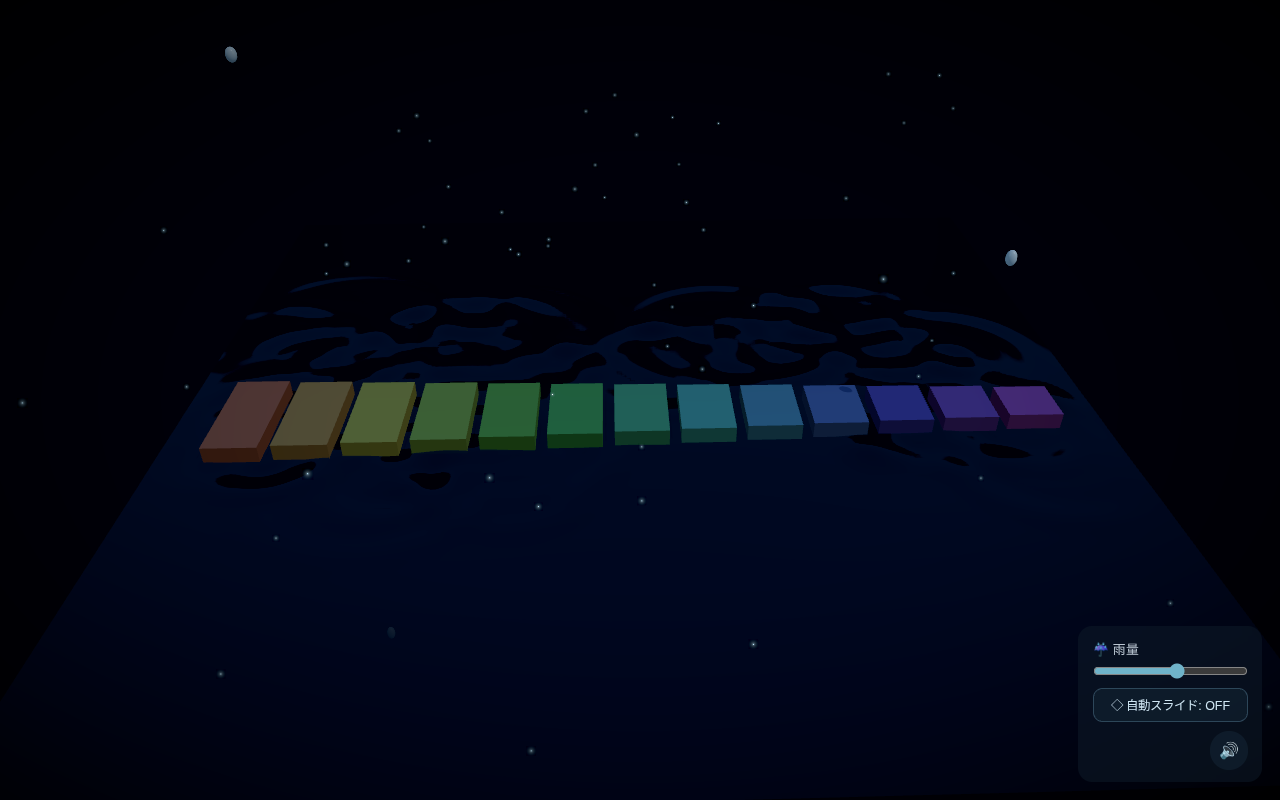
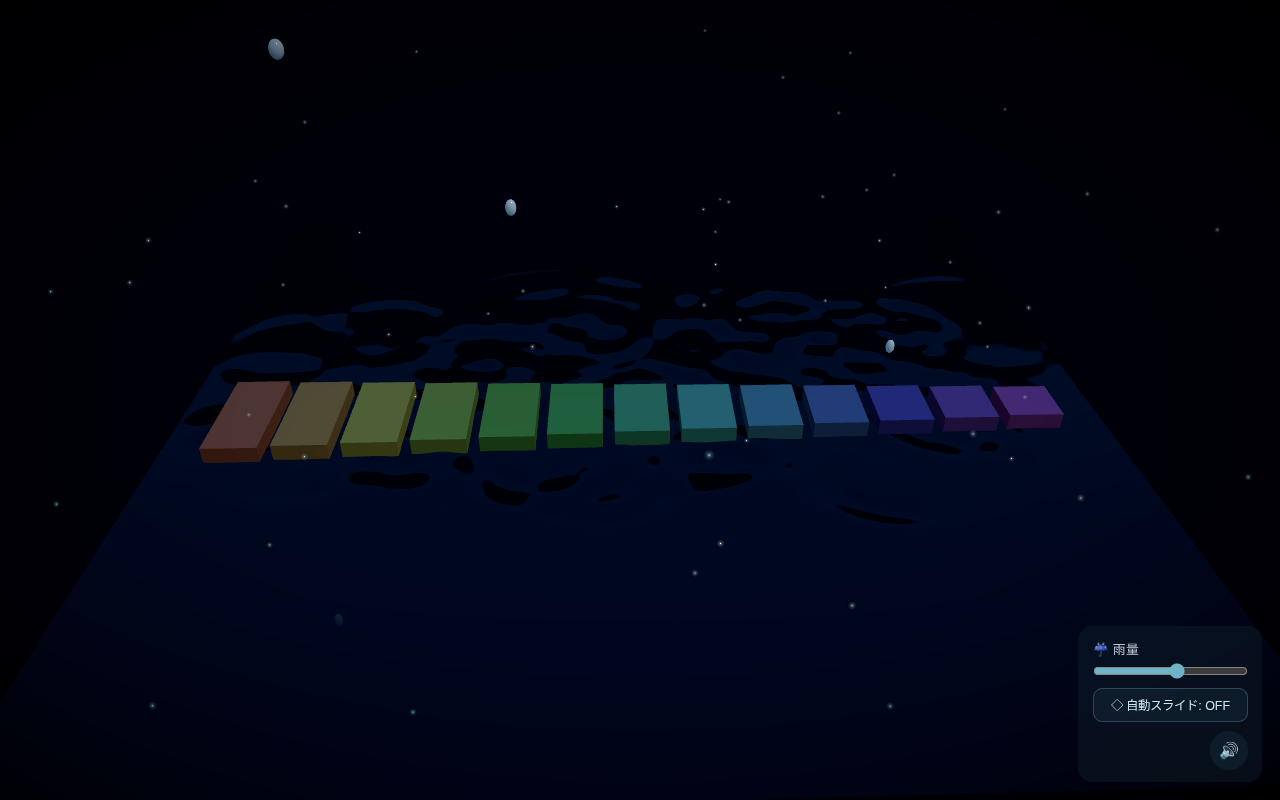
feat: 水面の泡音(着水音)を削除・板の音を木琴(シロフォン)系の硬く短い響きに変更

diff --git a/src/audio/synth.ts b/src/audio/synth.ts
@@ -27,7 +27,6 @@ let engine: Engine | null = null
 let started = false
 let muted = false
 let activeVoices = 0
-let activeDropVoices = 0
 
 async function loadTone(): Promise<ToneMod> {
   if (!Tone) Tone = await import('tone')
@@ -94,7 +93,8 @@ export async function startAudio(): Promise<void> {
 }
 
 /**
- * バーに着水したときに、そのバーの音を温かいマリンバで鳴らす。
+ * バーに着水したときに、そのバーの音を木琴（シロフォン）系の硬く明るい音で鳴らす。
+ * 木琴の特徴である基音＋12度（第3倍音）の響きと、短く打鍵的な減衰にしている。
  * x はシーン上の横位置（[-POND_HALF, POND_HALF]）で、左右の定位に使う。
  */
 export function playNote(note: string, x: number): void {
@@ -108,14 +108,16 @@ export function playNote(note: string, x: number): void {
   panVol.connect(engine.eq) // ドライ成分も少し
 
   const voice = new T.Synth({
-    oscillator: { partials: [1, 0, 2, 0, 3] }, // 木質の倍音（マリンバ）
-    envelope: { attack: 0.001, decay: 1.2, sustain: 0, release: 1.2 },
+    // 基音＋第3倍音(12度)＋第6倍音 ＝ 木琴の硬く乾いた響き。
+    oscillator: { partials: [1, 0, 0.7, 0, 0, 0.3] },
+    // 短い減衰で「コンッ」と鳴って素早く消える（木琴らしい打鍵感）。
+    envelope: { attack: 0.001, decay: 0.5, sustain: 0, release: 0.3 },
     volume: -6,
   }).connect(panVol)
-  voice.detune.value = (Math.random() * 2 - 1) * 6 // ±6 cent のゆらぎ
+  voice.detune.value = (Math.random() * 2 - 1) * 5 // ±5 cent のゆらぎ
 
-  const velocity = 0.5 + Math.random() * 0.4
-  voice.triggerAttackRelease(note, '2n', undefined, velocity)
+  const velocity = 0.55 + Math.random() * 0.4
+  voice.triggerAttackRelease(note, '8n', undefined, velocity)
 
   activeVoices += 1
   setTimeout(() => {
@@ -125,46 +127,7 @@ export function playNote(note: string, x: number): void {
     } finally {
       activeVoices -= 1 // dispose が失敗してもカウンタを必ず戻す
     }
-  }, 2600)
-}
-
-/**
- * 水面への着水音（リアルな「ポチャッ」）。
- * 水滴の気泡共鳴を模して、ピッチが素早く上がる正弦波＋速い減衰。
- * 滴ごとに基音と上昇量をゆらして、雨の粒立ちを出す。x で左右へ定位。
- */
-export function playWaterDrop(x: number): void {
-  if (!started || !Tone || !engine) return
-  if (activeDropVoices > 12) return // 多発するのでやや低めに上限
-  const T = Tone
-  const now = T.now()
-
-  const pan = Math.max(-1, Math.min(1, x / POND_HALF))
-  const panVol = new T.PanVol(pan, -15)
-  panVol.connect(engine.reverb)
-  panVol.connect(engine.eq)
-
-  const f0 = 520 + Math.random() * 440
-  const voice = new T.Synth({
-    oscillator: { type: 'sine' },
-    envelope: { attack: 0.001, decay: 0.1, sustain: 0, release: 0.04 },
-    volume: -8,
-  }).connect(panVol)
-
-  voice.triggerAttackRelease(f0, 0.11, now, 0.5 + Math.random() * 0.4)
-  // 着水直後にピッチが跳ね上がる ＝ 水滴特有の「ポチャ」
-  voice.frequency.setValueAtTime(f0, now)
-  voice.frequency.exponentialRampToValueAtTime(f0 * (1.8 + Math.random() * 0.8), now + 0.05)
-
-  activeDropVoices += 1
-  setTimeout(() => {
-    try {
-      voice.dispose()
-      panVol.dispose()
-    } finally {
-      activeDropVoices -= 1
-    }
-  }, 400)
+  }, 1200)
 }
 
 /** ミュート切り替え（クリックノイズを避けて短くランプ）。 */

diff --git a/src/scene/RainSystem.tsx b/src/scene/RainSystem.tsx
@@ -14,7 +14,7 @@ import {
   worldToUv,
 } from '../config'
 import { settings } from '../state/settings'
-import { playNote, playWaterDrop } from '../audio/synth'
+import { playNote } from '../audio/synth'
 import type { WaterField } from '../water/waterField'
 import { Drop } from './Drop'
 import { Splash } from './Splash'
@@ -158,8 +158,7 @@ export function RainSystem({ field }: { field: WaterField }) {
         return
       }
 
-      // 水面に着水 → 着水音＋水面シムへ波を注入（波紋は GPU シミュレーションが描く）。
-      playWaterDrop(x)
+      // 水面に着水 → 水面シムへ波を注入（波紋は GPU シミュレーションが描く。着水音は無し）。
       const [u, v] = worldToUv(x, z)
       field.impacts.push({ u, v, strength: IMPACT_STRENGTH })
     },